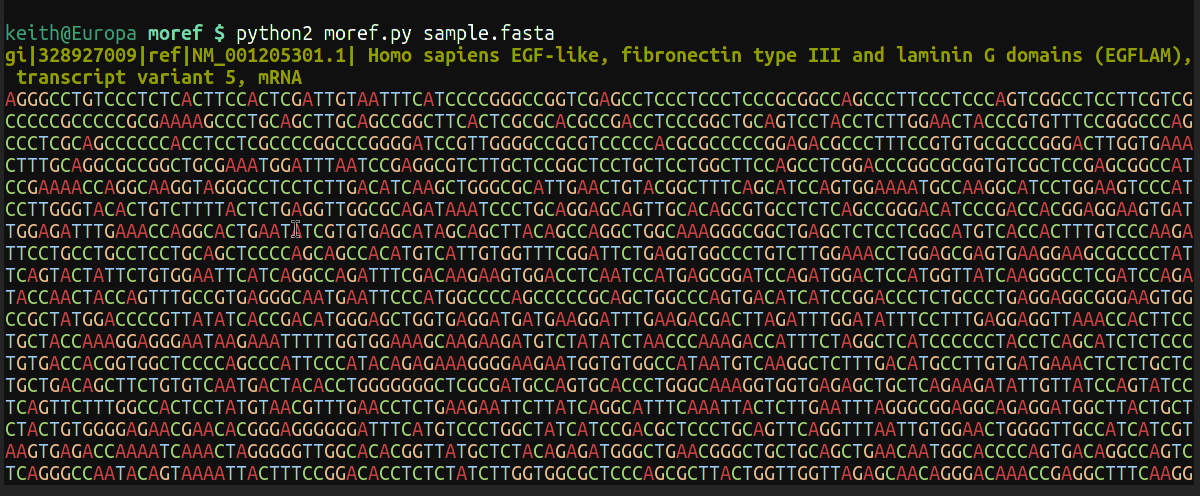
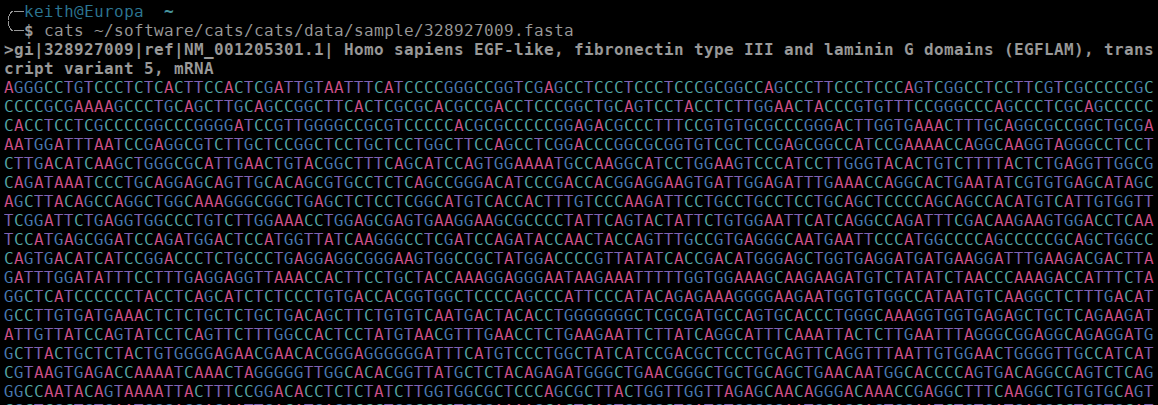
Updated screenshot

diff --git a/cats/io/formatter/seqrecord.py b/cats/io/formatter/seqrecord.py
@@ -51,7 +51,7 @@ class SeqRecordFormatter(object):
             if kwargs['color']:
                 buffer += BOLD
 
-            buffer += ">" + seq.description
+            buffer += ">" + seq.description + "\n"
 
             # Protein
             if kwargs['translate']:
